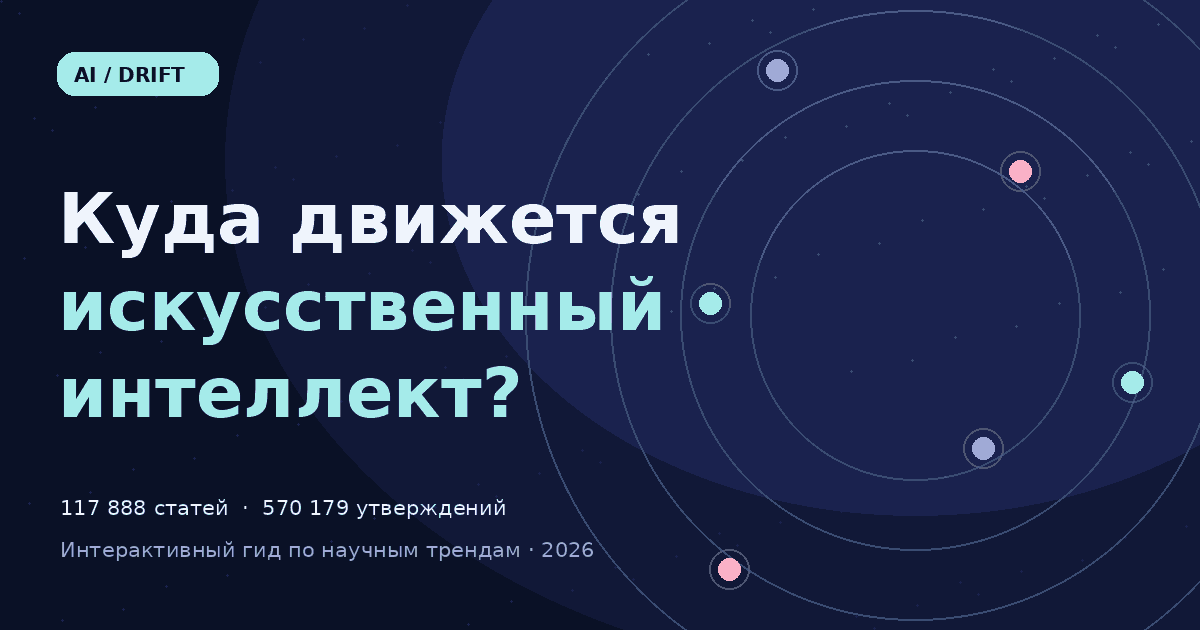
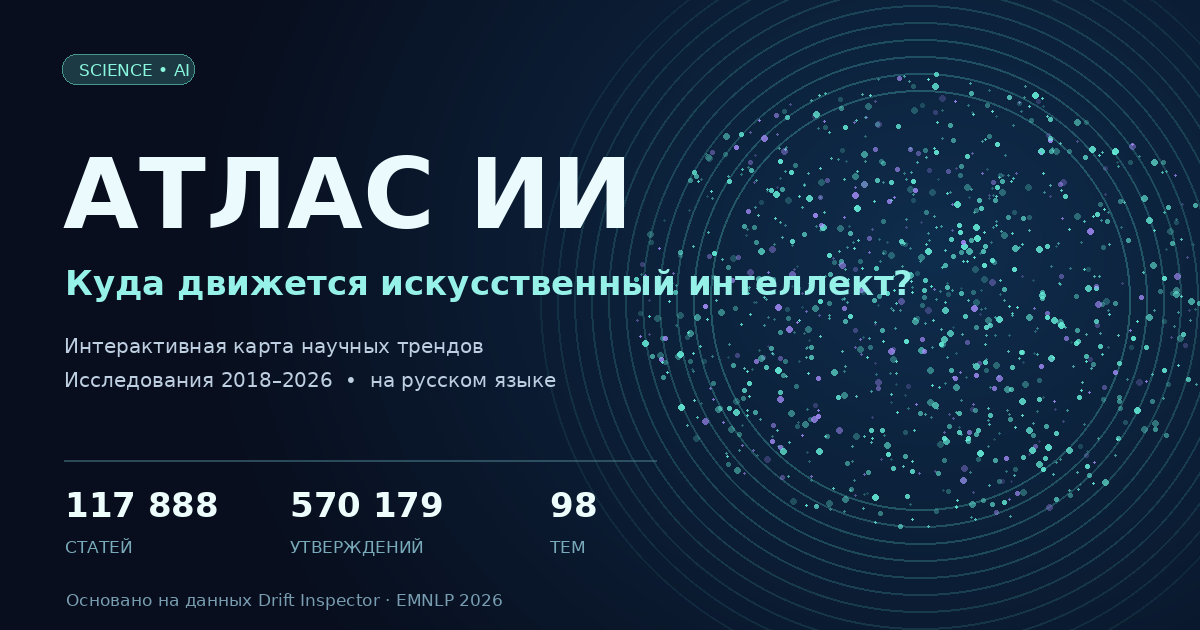
polish: cache-bust application assets and add Telegram share cover

diff --git a/app.js b/app.js
@@ -25,6 +25,6 @@ async function getClaim(p,c){const idx=p%165;if(!D.shards.has(idx))D.shards.set(
 function drawerOpen(){q('drawer-backdrop').hidden=false;q('claim-drawer').classList.add('open')}
 function drawerClose(){q('drawer-backdrop').hidden=true;q('claim-drawer').classList.remove('open')}
 async function drawer(p,c){drawerOpen();q('drawer-content').innerHTML='<div class="loading-ring"></div>';try{let cl=await getClaim(p,c),pp=D.papers,link=pp.url[p],t=pp.title[p];q('drawer-content').innerHTML=`<div class="drawer-kicker">НАУЧНАЯ СТАТЬЯ · ${esc(pp.venue[p])} ${esc(pp.year[p])}</div><h2>${esc(c<0?'Утверждение вне кластера':title(T(c)))}</h2><p class="meta">Публикация: ${esc(t)}</p><h3>Что утверждают исследователи</h3><p class="raw">${esc(cl)}</p><p class="meta">Текст утверждения сохранён на языке научного первоисточника, чтобы не исказить смысл.</p><a href="${esc(link||'#')}" target="_blank" rel="noopener">Открыть научную статью ↗</a>`}catch(e){q('drawer-content').innerHTML='<h3>Не удалось загрузить публикацию</h3><p>'+esc(e.message)+'</p>'}}
-function initUI(){document.querySelectorAll('[data-goto]').forEach(e=>e.onclick=()=>go(e.dataset.goto));document.querySelectorAll('[data-view]').forEach(e=>e.onclick=()=>go(e.dataset.view));q('menu-btn').onclick=()=>document.querySelector('.sidebar').classList.toggle('open');q('theme-btn').onclick=()=>{document.body.classList.toggle('light');localStorage.setItem('drift-theme',document.body.classList.contains('light')?'light':'dark')};if(localStorage.getItem('drift-theme')==='light')document.body.classList.add('light');Y.forEach(y=>q('map-year').add(new Option(y,y)));q('map-year').onchange=e=>{S.mapYear=e.target.value;window.DriftMap?.repaint()};q('map-color').onchange=e=>{S.mapColor=e.target.value;window.DriftMap?.repaint()};q('map-quality').onchange=e=>{S.quality=e.target.value;window.DriftMap?.repaint()};q('map-reset').onclick=()=>{S.mapTopic=null;S.mapYear='all';q('map-year').value='all';q('map-all-topics').classList.add('selected');mapTopics();window.DriftMap?.reset()};q('map-all-topics').onclick=q('map-reset').onclick;q('map-topic-search').oninput=pause(mapTopics);q('topic-search').oninput=pause(topics);q('topic-sort').onchange=e=>{S.sort=e.target.value;topics()};document.querySelectorAll('[data-topn]').forEach(e=>e.onclick=()=>{S.topn=+e.dataset.topn;document.querySelectorAll('[data-topn]').forEach(x=>x.classList.toggle('active',x===e));trends()});q('clear-trajectories').onclick=()=>{S.lines.clear();trends()};document.querySelectorAll('[data-metric]').forEach(e=>e.onclick=()=>{S.metric=e.dataset.metric;document.querySelectorAll('[data-metric]').forEach(x=>x.classList.toggle('active',x===e));compare()});q('drawer-close').onclick=drawerClose;q('drawer-backdrop').onclick=drawerClose;document.addEventListener('keydown',e=>{if(e.key==='Escape')drawerClose()});window.DriftCore={D,S,R,Y,title,T,col,hue,fmt,pct,sgn,esc,q,toasts:toast,loadFull,drawer,drawerOpen,go};window.DriftMap={start:async()=>{const m=await import('./visual.js');Object.assign(window.DriftMap,m);return m.start()},repaint:()=>{},openTopic:async id=>{await loadFull();const i=D.members.cluster.indexOf(id);if(i>=0)drawer(D.members.paper[i],id);else toast('Для этой темы не найден исходный тезис')}};go(location.hash.substring(1)||'overview');loadCore();import('./visual.js').then(m=>m.initHero()).catch(e=>console.error('Three.js animation:',e))}
+function initUI(){document.querySelectorAll('[data-goto]').forEach(e=>e.onclick=()=>go(e.dataset.goto));document.querySelectorAll('[data-view]').forEach(e=>e.onclick=()=>go(e.dataset.view));q('menu-btn').onclick=()=>document.querySelector('.sidebar').classList.toggle('open');q('theme-btn').onclick=()=>{document.body.classList.toggle('light');localStorage.setItem('drift-theme',document.body.classList.contains('light')?'light':'dark')};if(localStorage.getItem('drift-theme')==='light')document.body.classList.add('light');Y.forEach(y=>q('map-year').add(new Option(y,y)));q('map-year').onchange=e=>{S.mapYear=e.target.value;window.DriftMap?.repaint()};q('map-color').onchange=e=>{S.mapColor=e.target.value;window.DriftMap?.repaint()};q('map-quality').onchange=e=>{S.quality=e.target.value;window.DriftMap?.repaint()};q('map-reset').onclick=()=>{S.mapTopic=null;S.mapYear='all';q('map-year').value='all';q('map-all-topics').classList.add('selected');mapTopics();window.DriftMap?.reset()};q('map-all-topics').onclick=q('map-reset').onclick;q('map-topic-search').oninput=pause(mapTopics);q('topic-search').oninput=pause(topics);q('topic-sort').onchange=e=>{S.sort=e.target.value;topics()};document.querySelectorAll('[data-topn]').forEach(e=>e.onclick=()=>{S.topn=+e.dataset.topn;document.querySelectorAll('[data-topn]').forEach(x=>x.classList.toggle('active',x===e));trends()});q('clear-trajectories').onclick=()=>{S.lines.clear();trends()};document.querySelectorAll('[data-metric]').forEach(e=>e.onclick=()=>{S.metric=e.dataset.metric;document.querySelectorAll('[data-metric]').forEach(x=>x.classList.toggle('active',x===e));compare()});q('drawer-close').onclick=drawerClose;q('drawer-backdrop').onclick=drawerClose;document.addEventListener('keydown',e=>{if(e.key==='Escape')drawerClose()});window.DriftCore={D,S,R,Y,title,T,col,hue,fmt,pct,sgn,esc,q,toasts:toast,loadFull,drawer,drawerOpen,go};window.DriftMap={start:async()=>{const m=await import('./visual.js?v=20261113-04');Object.assign(window.DriftMap,m);return m.start()},repaint:()=>{},openTopic:async id=>{await loadFull();const i=D.members.cluster.indexOf(id);if(i>=0)drawer(D.members.paper[i],id);else toast('Для этой темы не найден исходный тезис')}};go(location.hash.substring(1)||'overview');loadCore();import('./visual.js?v=20261113-04').then(m=>m.initHero()).catch(e=>console.error('Three.js animation:',e))}
 initUI();
 

diff --git a/index.html b/index.html
@@ -3,7 +3,7 @@
 <title>Атлас ИИ — интерактивная карта научных трендов 2018–2026</title>
 <meta name="description" content="Куда движется искусственный интеллект? Интерактивная карта 570 179 научных утверждений: темы, рост и спад, сравнение конференций, реальные статьи.">
 <meta property="og:type" content="website"><meta property="og:title" content="Атлас ИИ — карта научных трендов"><meta property="og:description" content="118 тысяч исследований, 570 тысяч утверждений и 98 направлений. На русском языке.">
-<link rel="icon" href="./assets/favicon.svg"><link rel="stylesheet" href="./style.css">
+<meta property="og:image" content="https://vichepaev22.github.io/ai-drift-explained/assets/share.png"><meta name="twitter:card" content="summary_large_image"><link rel="icon" href="./assets/favicon.svg"><link rel="stylesheet" href="./style.css">
 <script type="importmap">{"imports":{"three":"./vendor/three.module.min.js"}}</script></head>
 <body>
 <div id="app" class="app">
@@ -74,4 +74,4 @@
 <div id="drawer-backdrop" class="drawer-backdrop" hidden></div>
 <aside id="claim-drawer" class="claim-drawer" aria-live="polite"><button id="drawer-close" class="drawer-close" aria-label="Закрыть">×</button><div id="drawer-content"></div></aside>
 <div id="toast" class="toast" role="status" aria-live="polite"></div>
-<script type="module" src="./app.js"></script></body></html>
+<script type="module" src="./app.js?v=20261113-04"></script></body></html>
